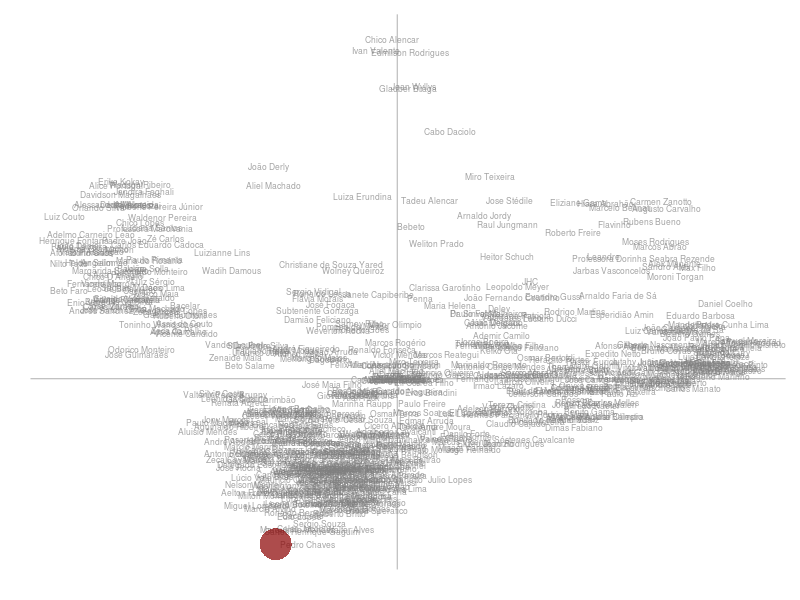
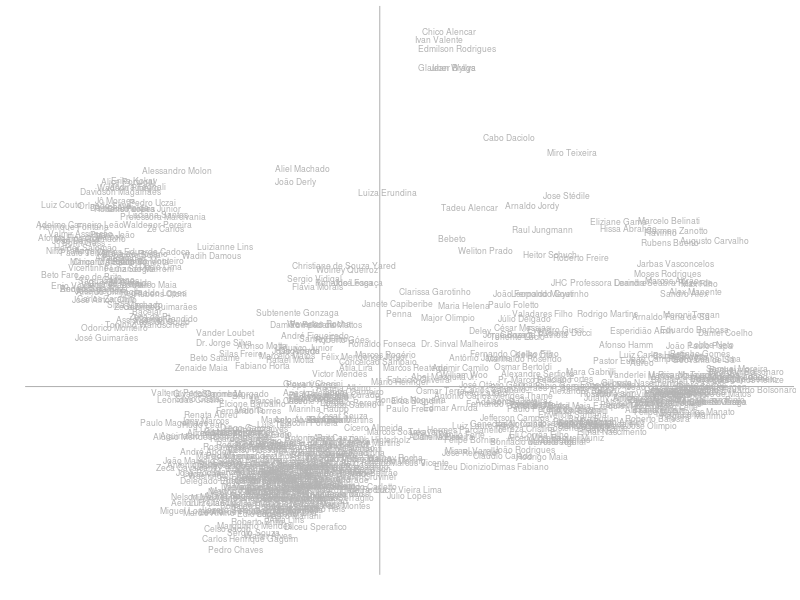
Atualização dos gráficos do site. Issue #8

diff --git a/index.html b/index.html
@@ -86,33 +86,17 @@
         <hr class="featurette-divider">
 
         <div class="row">
-            <div class="col-md-8" id="geral">
-                <a href="images/visao-geral-gg.png">
-                    <img class="img-responsive pull-right" src="images/visao-geral.png">
-                </a>
-            </div>
             <div class="col-md-4">
                 <h2 class="featurette-heading">As posições
                     <span class="text-muted">pelas ações</span>
                 </h2>
-                <p class="lead">A partir das votações, criamos um mapa que agrupa os deputados da house of cunha que votam parecidos. Há três grupos maiores que detalharemos mais abaixo. (Você pode clicar na imagem para vê-la maior, se quiser procurar alguém...)</p>
-            </div>
-        </div>
-
-        <hr class="featurette-divider">
-
-        <div class="row">
-            <div class="col-md-4">
-                <h2 class="featurette-heading">Eduardo Cunha
-                    <span class="text-muted">como referência</span>
-                </h2>
-                <p class="lead">O ponto vermelho na figura ao lado ilustra onde estaria um deputado que seguisse exatamente as
-                    orientações de Eduardo Cunha. Cunha não vota, mas como ele é o líder do PMDB na Câmara, podemos utilizar as orientações
-                    do PMDB como orientações de Cunha.</p>
+                <p class="lead">A partir das votações, criamos um mapa que agrupa os deputados da house of cunha que
+                    votam parecidos. Há três grupos maiores que detalharemos mais abaixo. (Você pode clicar na imagem
+                    para vê-la maior, se quiser procurar alguém...)</p>
             </div>
             <div class="col-md-8" id="geral">
-                <a href="images/visao-geral-cc.png">
-                    <img class="img-responsive pull-left" src="images/visao-geral-cc.png">
+                <a href="images/visao-geral-gg.png">
+                    <img class="img-responsive pull-right" src="images/visao-geral.png">
                 </a>
             </div>
         </div>
@@ -126,10 +110,12 @@
                 </a>
             </div>
             <div class="col-md-4 pull-left" id="geral">
-                <h2 class="featurette-heading">Mais referências
+                <h2 class="featurette-heading">Referências
                     <span class="text-muted">para orientação.</span>
                 </h2>
-                <p class="lead">Para situar a leitura do mapa, aqui estão onde ficaram alguns deputados icônicos. Se, assim como a gente, você é da Paraíba, temos uma versão com <a href="images/deputados-da-pb.png">destaque para os deputados da PB</a>.</p>
+                <p class="lead">Para situar a leitura do mapa, aqui estão onde ficaram alguns deputados icônicos.
+                    Se, assim como a gente, você é da Paraíba, temos uma versão com
+                    <a href="images/deputados-da-pb.png">destaque para os deputados da PB</a>.</p>
             </div>
         </div>
 
@@ -140,7 +126,8 @@
                 <h2 class="featurette-heading">Três partidos grandes
                     <span class="text-muted">e um quarto diferente.</span>
                 </h2>
-                <p class="lead">Os três maiores grupos no mapa são as posições de PT, PMDB e PSDB. O PSOL marca uma quarta posição diferente das três.
+                <p class="lead">Os três maiores grupos no mapa são as posições de PT, PMDB e PSDB. O PSOL
+                    marca uma quarta posição diferente das três.
                 O PSDB está mais longe que o PMDB do PT, mas não tanto. O PMDB fica entre oposição e situação. </p>
             </div>
             <div class="col-md-8" id="partidos">
@@ -176,10 +163,12 @@
                     <span class="text-muted">Ok.</span>
                 </h2>
                 <p>Para fazer o mapa acima, utilizamos os dados de todas as votações da Câmara até Outubro/2015.
-                    A atividade dos deputados é comparada de acordo com sua similaridade, e o espaço no qual os distribuímos nas figuras é criado utilizando um método estatístico chamado Multiple Correspondence Analysis,
-                    uma técnica de redução de dimensionalidade para dados categóricos (essa última frase só deve fazer sentido se você gostar muito de estatística e Mineração de Dados).
+                    A atividade dos deputados é comparada de acordo com sua similaridade, e o espaço no qual os
+                    distribuímos nas figuras é criado utilizando um método estatístico chamado Multiple Correspondence Analysis,
+                    uma técnica de redução de dimensionalidade para dados categóricos (essa última frase só deve fazer
+                    sentido se você gostar muito de estatística e Mineração de Dados).
                     Quando um deputado não vota sim ou não, assumimos que ele concorda com a maioria.</p>
-                <p>Os dados e cálculos foram atualizados pela última vez em: 30/10/2015.</p>
+                <p>Os dados e cálculos foram atualizados pela última vez em: 01/04/2016.</p>
                 <p class="lead">Mas não acabou. Abaixo, o Cunhômetro!</p>
             </div>
         </div>
